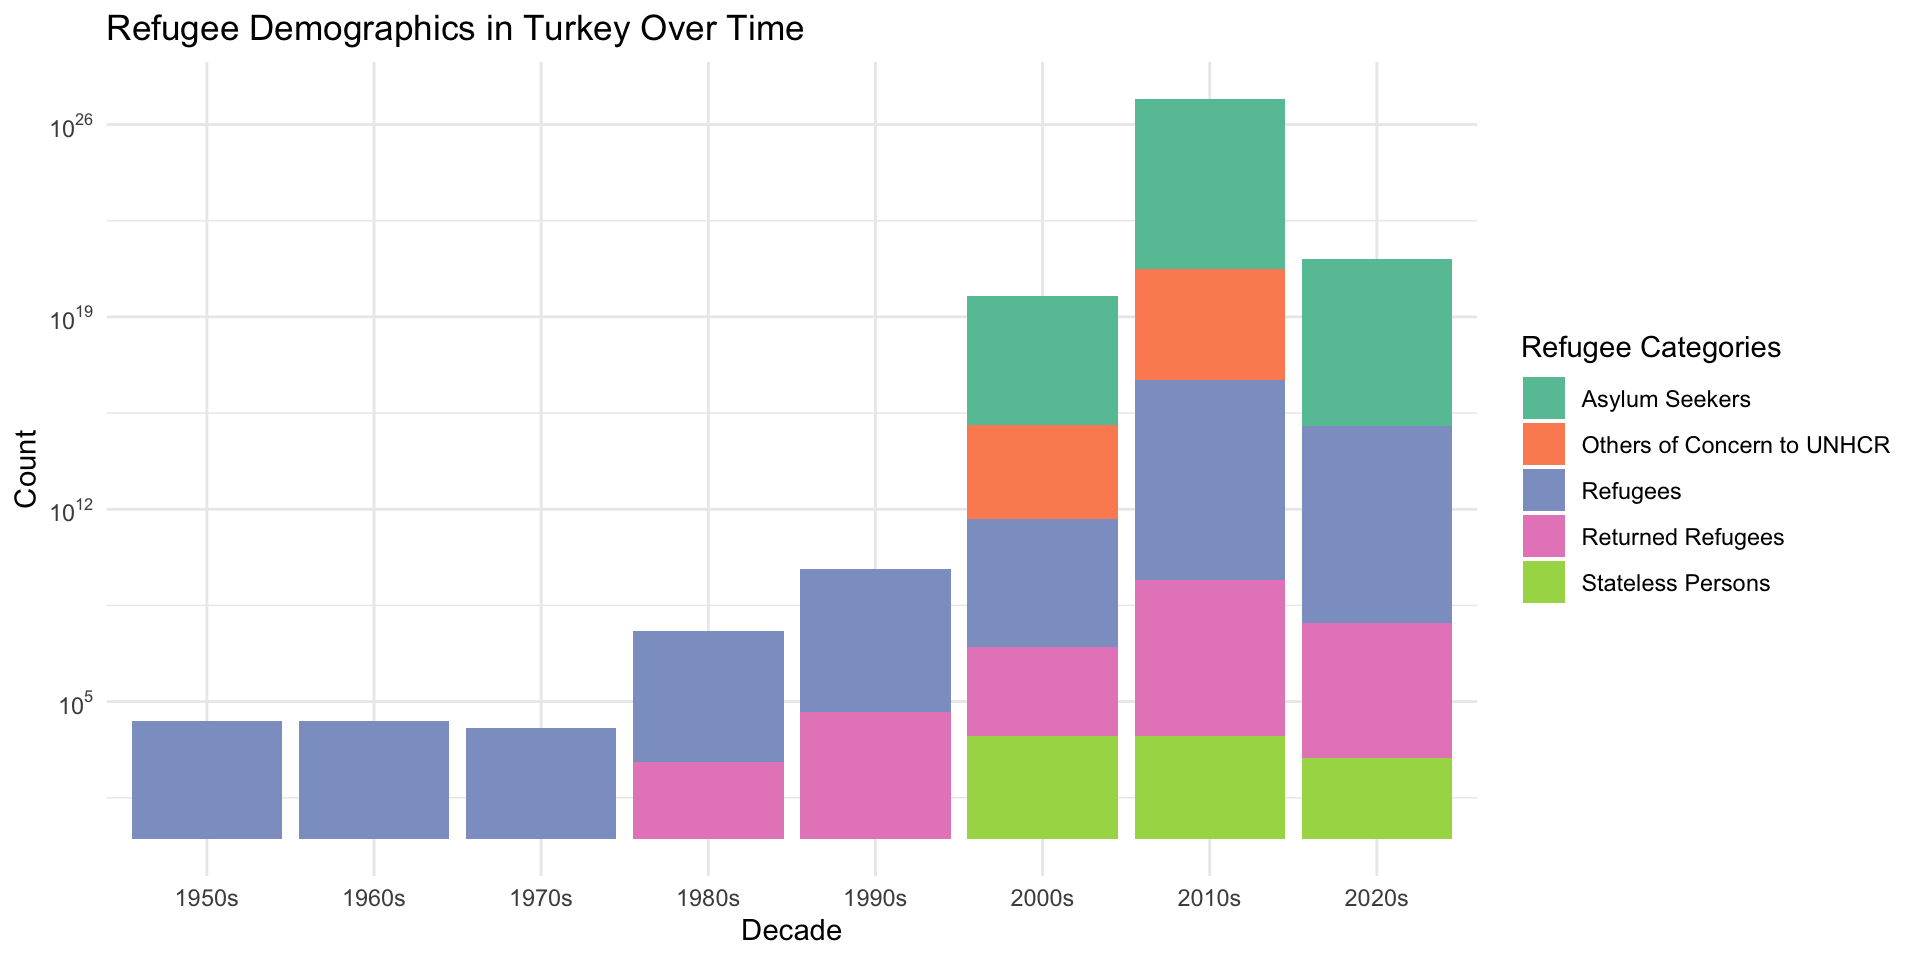
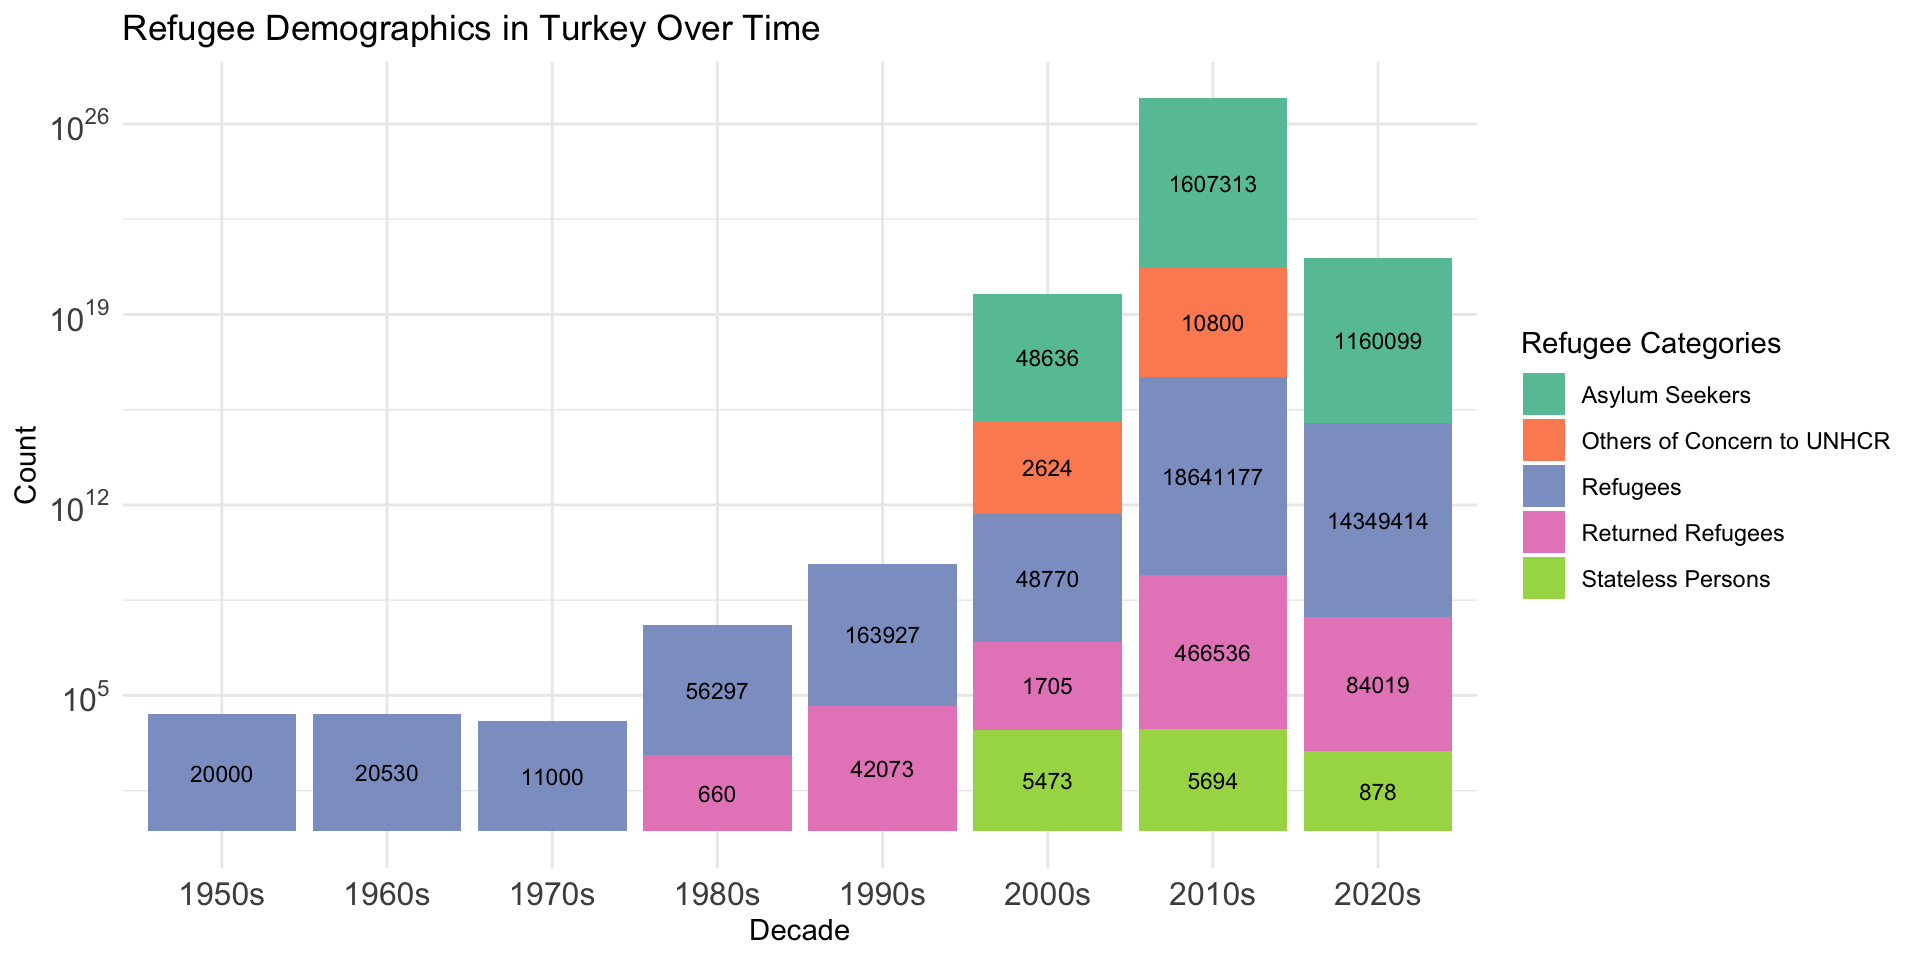
graphics edit

diff --git a/_site/presentation.html b/_site/presentation.html
@@ -344,10 +344,14 @@
 </ul></li>
 </ul>
 </section>
-<section id="q1-graphics" class="slide level2">
-<h2>Q1 Graphics</h2>
+<section id="question-1" class="slide level2">
+<h2>Question 1</h2>
+<p>In the year 2022, how did geography affect refugee populations? Where are refugees coming from and where are they going to?</p>
+</section>
+<section id="question-1-graphics" class="slide level2">
+<h2>Question 1 Graphics</h2>
 <div class="panel-tabset">
-<ul id="tabset-1" class="panel-tabset-tabby"><li><a data-tabby-default="" href="#tabset-1-1">Q1a</a></li><li><a href="#tabset-1-2">Q1b</a></li></ul>
+<ul id="tabset-1" class="panel-tabset-tabby"><li><a data-tabby-default="" href="#tabset-1-1">Graph 1</a></li><li><a href="#tabset-1-2">Graph 1</a></li><li><a href="#tabset-1-3">Graph 2</a></li><li><a href="#tabset-1-4">Graph 2</a></li></ul>
 <div class="tab-content">
 <div id="tabset-1-1">
 <div class="cell" data-fig.asp="0.5">
@@ -357,11 +361,23 @@
 </div>
 </div>
 <div id="tabset-1-2">
+<ul>
+<li>Top 3 countries of origin</li>
+<li>Afghanistan</li>
+<li>Syria</li>
+<li>Ukraine</li>
+</ul>
+</div>
+<div id="tabset-1-3">
 <div class="cell" data-fig.asp="0.5">
 <div class="cell-output-display">
 <p><img data-src="presentation_files/figure-revealjs/unnamed-chunk-4-1.png" width="960"></p>
 </div>
 </div>
+</div>
+<div id="tabset-1-4">
+<p>Top 3 countries of Asylum<br>
+- Turkey - Iran - Germany</p>
 </div>
 </div>
 </div>
@@ -390,8 +406,8 @@
 <h2>Question 2</h2>
 <p>How have refugee populations changed in Turkey over time?</p>
 </section>
-<section id="question-2-1" class="slide level2">
-<h2>Question 2</h2>
+<section id="question-2-graphics" class="slide level2">
+<h2>Question 2 Graphics</h2>
 <div class="panel-tabset">
 <ul id="tabset-3" class="panel-tabset-tabby"><li><a data-tabby-default="" href="#tabset-3-1">Graph 1</a></li><li><a href="#tabset-3-2">Graph 2</a></li></ul>
 <div class="tab-content">
